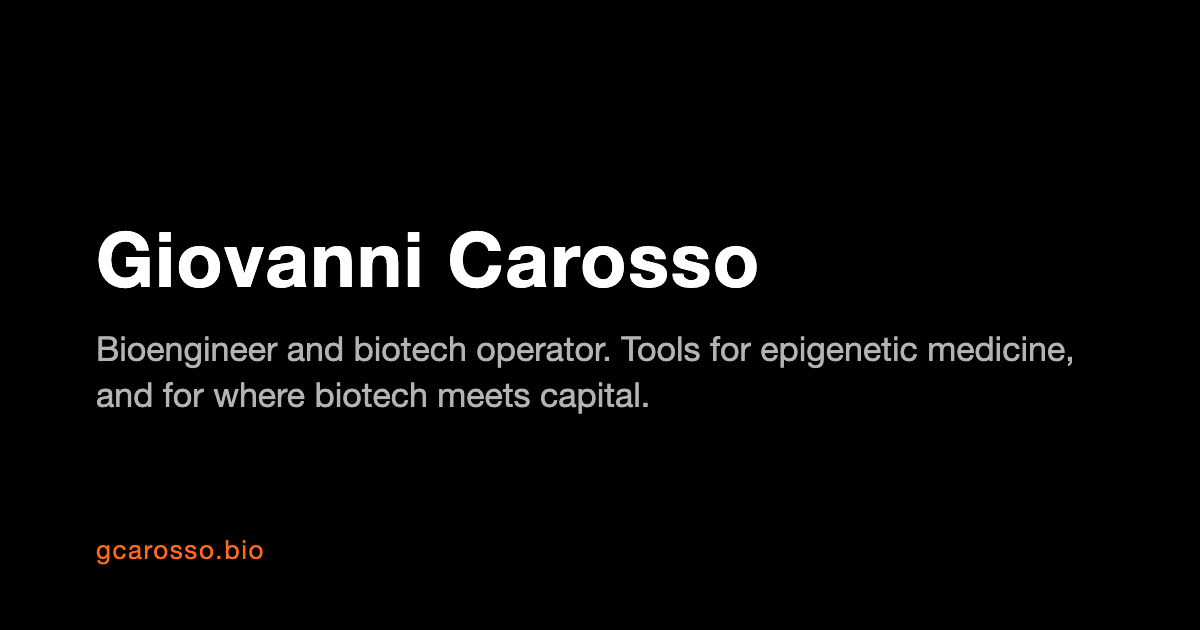
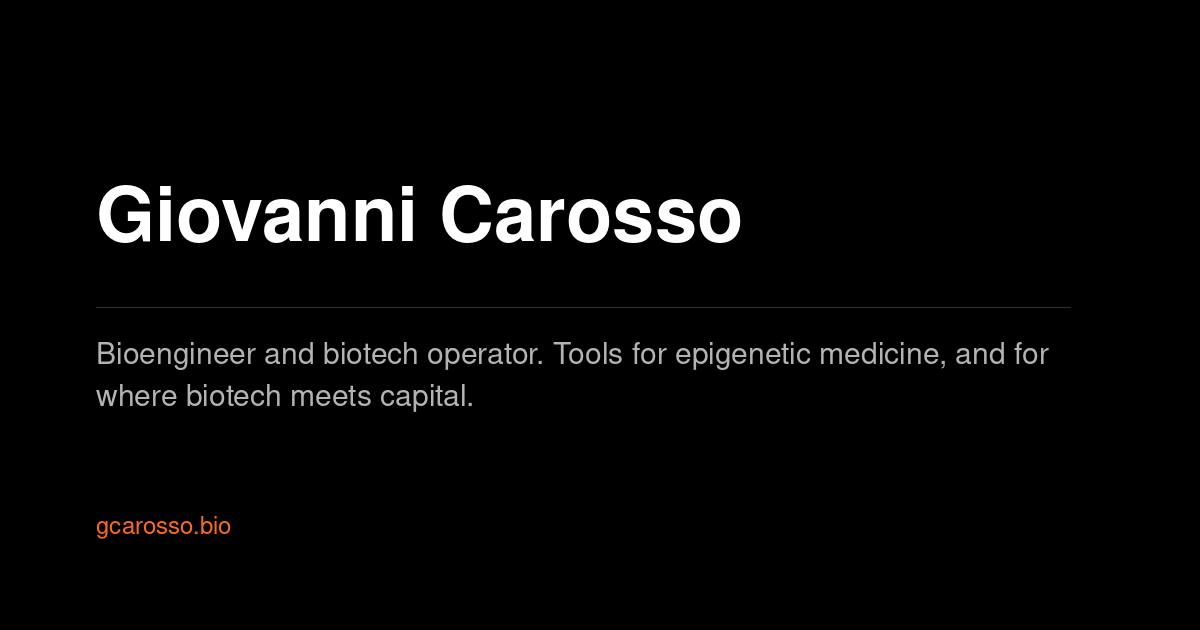
Share cards: text card on home and section pages, eclipse-mark card on Tools, photograph reserved for Travels; regenerable via assets/make_og_cards.py

Changed region(s): [[0.0617, 0.2714, 0.6475, 0.4825], [0.0617, 0.5429, 0.8942, 0.6635], [0.0617, 0.8143, 0.2158, 0.9048]]

diff --git a/tools/index.html b/tools/index.html
@@ -14,13 +14,13 @@
 <meta property="og:title" content="Tools — Giovanni Carosso">
 <meta property="og:description" content="Interactive research tools by Giovanni Carosso. SAROS: a navigator of today's clinical trial landscape, mapped to the money around it, 2026–2028, public sources only.">
 <meta property="og:url" content="https://gcarosso.bio/tools/">
-<meta property="og:image" content="https://gcarosso.bio/assets/img/saros-mark-512.png">
-<meta property="og:image:secure_url" content="https://gcarosso.bio/assets/img/saros-mark-512.png">
+<meta property="og:image" content="https://gcarosso.bio/assets/img/og-tools.png">
+<meta property="og:image:secure_url" content="https://gcarosso.bio/assets/img/og-tools.png">
 <meta property="og:image:type" content="image/png">
-<meta property="og:image:width" content="512">
-<meta property="og:image:height" content="512">
+<meta property="og:image:width" content="1200">
+<meta property="og:image:height" content="630">
 <meta name="twitter:card" content="summary_large_image">
-<meta name="twitter:image" content="https://gcarosso.bio/assets/img/saros-mark-512.png">
+<meta name="twitter:image" content="https://gcarosso.bio/assets/img/og-tools.png">
 <link rel="stylesheet" href="../style.css?v=41">
 <script type="application/ld+json">
 {

diff --git a/index.html b/index.html
@@ -14,13 +14,13 @@
 <meta property="og:title" content="Giovanni Carosso">
 <meta property="og:description" content="Giovanni Carosso, PhD — bioengineer and biotech operator in San Francisco. Tools for epigenetic medicine and for navigating where biotech meets capital, including SAROS, the clinical-trial readout dashboard.">
 <meta property="og:url" content="https://gcarosso.bio/">
-<meta property="og:image" content="https://gcarosso.bio/assets/img/og-home.jpg">
-<meta property="og:image:secure_url" content="https://gcarosso.bio/assets/img/og-home.jpg">
-<meta property="og:image:type" content="image/jpeg">
+<meta property="og:image" content="https://gcarosso.bio/assets/img/og-card.png?v=2">
+<meta property="og:image:secure_url" content="https://gcarosso.bio/assets/img/og-card.png?v=2">
+<meta property="og:image:type" content="image/png">
 <meta property="og:image:width" content="1200">
 <meta property="og:image:height" content="630">
 <meta name="twitter:card" content="summary_large_image">
-<meta name="twitter:image" content="https://gcarosso.bio/assets/img/og-home.jpg">
+<meta name="twitter:image" content="https://gcarosso.bio/assets/img/og-card.png?v=2">
 <link rel="stylesheet" href="style.css?v=41">
 <script type="application/ld+json">
 {

diff --git a/about.html b/about.html
@@ -14,13 +14,13 @@
 <meta property="og:title" content="About — Giovanni Carosso">
 <meta property="og:description" content="About Giovanni Carosso, PhD: a decade building high-throughput discovery pipelines for epigenetic editors, from Johns Hopkins and UCSF to Epicrispr Biotechnologies and General Control.">
 <meta property="og:url" content="https://gcarosso.bio/about">
-<meta property="og:image" content="https://gcarosso.bio/assets/img/og-card.png">
-<meta property="og:image:secure_url" content="https://gcarosso.bio/assets/img/og-card.png">
+<meta property="og:image" content="https://gcarosso.bio/assets/img/og-card.png?v=2">
+<meta property="og:image:secure_url" content="https://gcarosso.bio/assets/img/og-card.png?v=2">
 <meta property="og:image:type" content="image/png">
 <meta property="og:image:width" content="1200">
 <meta property="og:image:height" content="630">
 <meta name="twitter:card" content="summary_large_image">
-<meta name="twitter:image" content="https://gcarosso.bio/assets/img/og-card.png">
+<meta name="twitter:image" content="https://gcarosso.bio/assets/img/og-card.png?v=2">
 <link rel="stylesheet" href="style.css?v=41">
 <script type="application/ld+json">
 {

diff --git a/library/index.html b/library/index.html
@@ -14,13 +14,13 @@
 <meta property="og:title" content="Learning — Giovanni Carosso">
 <meta property="og:description" content="Library — the bookshelf and other media Giovanni Carosso keeps coming back to: biology, genetics, physics, systems, business, and a few novels.">
 <meta property="og:url" content="https://gcarosso.bio/library/">
-<meta property="og:image" content="https://gcarosso.bio/assets/img/og-card.png">
-<meta property="og:image:secure_url" content="https://gcarosso.bio/assets/img/og-card.png">
+<meta property="og:image" content="https://gcarosso.bio/assets/img/og-card.png?v=2">
+<meta property="og:image:secure_url" content="https://gcarosso.bio/assets/img/og-card.png?v=2">
 <meta property="og:image:type" content="image/png">
 <meta property="og:image:width" content="1200">
 <meta property="og:image:height" content="630">
 <meta name="twitter:card" content="summary_large_image">
-<meta name="twitter:image" content="https://gcarosso.bio/assets/img/og-card.png">
+<meta name="twitter:image" content="https://gcarosso.bio/assets/img/og-card.png?v=2">
 <link rel="stylesheet" href="../style.css?v=41">
 <script type="application/ld+json">
 {

diff --git a/travels/index.html b/travels/index.html
@@ -14,13 +14,13 @@
 <meta property="og:title" content="Travels — Giovanni Carosso">
 <meta property="og:description" content="Travels — photographs and film from the road, the mountains and underwater, by Giovanni Carosso.">
 <meta property="og:url" content="https://gcarosso.bio/travels/">
-<meta property="og:image" content="https://gcarosso.bio/assets/img/og-card.png">
-<meta property="og:image:secure_url" content="https://gcarosso.bio/assets/img/og-card.png">
-<meta property="og:image:type" content="image/png">
+<meta property="og:image" content="https://gcarosso.bio/assets/img/og-home.jpg">
+<meta property="og:image:secure_url" content="https://gcarosso.bio/assets/img/og-home.jpg">
+<meta property="og:image:type" content="image/jpeg">
 <meta property="og:image:width" content="1200">
 <meta property="og:image:height" content="630">
 <meta name="twitter:card" content="summary_large_image">
-<meta name="twitter:image" content="https://gcarosso.bio/assets/img/og-card.png">
+<meta name="twitter:image" content="https://gcarosso.bio/assets/img/og-home.jpg">
 <link rel="stylesheet" href="../style.css?v=41">
 <script type="application/ld+json">
 {

diff --git a/cv.html b/cv.html
@@ -14,13 +14,13 @@
 <meta property="og:title" content="CV — Giovanni Carosso">
 <meta property="og:description" content="CV — Giovanni A. Carosso, PhD: bioengineer and biotech operator; epigenetic editing, ML-native discovery platforms, publications and patents.">
 <meta property="og:url" content="https://gcarosso.bio/cv">
-<meta property="og:image" content="https://gcarosso.bio/assets/img/og-card.png">
-<meta property="og:image:secure_url" content="https://gcarosso.bio/assets/img/og-card.png">
+<meta property="og:image" content="https://gcarosso.bio/assets/img/og-card.png?v=2">
+<meta property="og:image:secure_url" content="https://gcarosso.bio/assets/img/og-card.png?v=2">
 <meta property="og:image:type" content="image/png">
 <meta property="og:image:width" content="1200">
 <meta property="og:image:height" content="630">
 <meta name="twitter:card" content="summary_large_image">
-<meta name="twitter:image" content="https://gcarosso.bio/assets/img/og-card.png">
+<meta name="twitter:image" content="https://gcarosso.bio/assets/img/og-card.png?v=2">
 <link rel="stylesheet" href="style.css?v=41">
 <script type="application/ld+json">
 {

diff --git a/notes/index.html b/notes/index.html
@@ -14,13 +14,13 @@
 <meta property="og:title" content="Notes — Giovanni Carosso">
 <meta property="og:description" content="Notes by Giovanni Carosso, PhD — general or specific musings on biology, biotech and building things.">
 <meta property="og:url" content="https://gcarosso.bio/notes/">
-<meta property="og:image" content="https://gcarosso.bio/assets/img/og-card.png">
-<meta property="og:image:secure_url" content="https://gcarosso.bio/assets/img/og-card.png">
+<meta property="og:image" content="https://gcarosso.bio/assets/img/og-card.png?v=2">
+<meta property="og:image:secure_url" content="https://gcarosso.bio/assets/img/og-card.png?v=2">
 <meta property="og:image:type" content="image/png">
 <meta property="og:image:width" content="1200">
 <meta property="og:image:height" content="630">
 <meta name="twitter:card" content="summary_large_image">
-<meta name="twitter:image" content="https://gcarosso.bio/assets/img/og-card.png">
+<meta name="twitter:image" content="https://gcarosso.bio/assets/img/og-card.png?v=2">
 <link rel="stylesheet" href="../style.css?v=41">
 <script type="application/ld+json">
 {

diff --git a/assets/make_og_cards.py b/assets/make_og_cards.py
@@ -1,0 +1,138 @@
+#!/usr/bin/env python3
+"""Generate the 1200x630 social share cards.
+
+Run from the site root:  python3 assets/make_og_cards.py
+
+Writes assets/img/og-card.png  (default card, used on most pages)
+       assets/img/og-tools.png (Tools page, carries the SAROS mark)
+
+Design follows the site: black ground, Helvetica Neue (Nimbus Sans is the
+metric-compatible stand-in available on Linux), hairline rule, SAROS orange
+for the URL. Text block is optically centred with a 96px left margin and a
+90px bottom margin.
+"""
+
+from pathlib import Path
+from PIL import Image, ImageDraw, ImageFont
+
+W, H = 1200, 630
+MARGIN_L = 96
+MARGIN_R = 130          # slightly larger than left; optical balance
+MARGIN_B = 90
+
+BLACK = (0, 0, 0)
+WHITE = (255, 255, 255)
+GREY = (179, 179, 179)
+ORANGE = (255, 106, 26)  # SAROS #FF6A1A
+RULE = (46, 46, 46)
+
+FONT_DIR = Path("/usr/share/fonts/opentype/urw-base35")
+BOLD = FONT_DIR / "NimbusSans-Bold.otf"
+REG = FONT_DIR / "NimbusSans-Regular.otf"
+
+HERE = Path(__file__).resolve().parent
+IMG = HERE / "img"
+
+
+def wrap(draw, text, font, max_w):
+    words, lines, cur = text.split(), [], ""
+    for word in words:
+        trial = f"{cur} {word}".strip()
+        if draw.textlength(trial, font=font) <= max_w:
+            cur = trial
+        else:
+            if cur:
+                lines.append(cur)
+            cur = word
+    if cur:
+        lines.append(cur)
+    return lines
+
+
+def card(out, name, subtitle, url, eyebrow=None, mark=None):
+    im = Image.new("RGB", (W, H), BLACK)
+    d = ImageDraw.Draw(im)
+
+    f_eye = ImageFont.truetype(str(REG), 24)
+    f_name = ImageFont.truetype(str(BOLD), 76)
+    f_sub = ImageFont.truetype(str(REG), 30)
+    f_url = ImageFont.truetype(str(REG), 24)
+
+    # The mark, if any, sits on the right and narrows the text measure.
+    mark_w = 0
+    if mark and Path(mark).exists():
+        import numpy as np
+        from PIL import ImageChops
+
+        side = 300
+        m = Image.open(mark).convert("RGB").resize((side, side), Image.LANCZOS)
+        a = np.asarray(m, np.float32)
+
+        # The source is a tight crop of a photographed eclipse: its ground is
+        # near-black but not black (~8,3,0) and the corona still reaches the
+        # frame edge, so a plain paste shows as a square. Drop the floor to
+        # true black, then feather the outer band so the crop edge disappears.
+        a = np.clip(a - 9.0, 0, 255)
+        ramp = np.clip(np.linspace(0, 1, side) / 0.14, 0, 1)
+        ramp = np.minimum(ramp, ramp[::-1])
+        a *= (ramp[None, :] * ramp[:, None])[..., None]
+
+        layer = Image.new("RGB", (W, H), BLACK)
+        layer.paste(Image.fromarray(a.astype("uint8")),
+                    (W - MARGIN_R - side + 40, (H - side) // 2))
+        im = ImageChops.lighter(im, layer)
+        d = ImageDraw.Draw(im)
+        mark_w = side + 60
+
+    text_w = W - MARGIN_L - MARGIN_R - mark_w
+
+    sub_lines = wrap(d, subtitle, f_sub, text_w)
+
+    # Measure the block so it can be centred as a unit.
+    eyebrow_h = 40 if eyebrow else 0
+    name_h = 92
+    rule_gap_top, rule_gap_bottom = 30, 34
+    sub_h = 42 * len(sub_lines)
+    block_h = eyebrow_h + name_h + rule_gap_top + 1 + rule_gap_bottom + sub_h
+
+    # Sit the block a fixed gap above the URL line, which lands the top margin
+    # close to the bottom margin without the text floating mid-card.
+    url_top = H - MARGIN_B - 24
+    y = url_top - 90 - block_h
+
+    if eyebrow:
+        d.text((MARGIN_L, y), eyebrow.upper(), font=f_eye, fill=ORANGE)
+        y += eyebrow_h
+
+    d.text((MARGIN_L, y), name, font=f_name, fill=WHITE)
+    y += name_h + rule_gap_top
+
+    d.line([(MARGIN_L, y), (MARGIN_L + text_w, y)], fill=RULE, width=1)
+    y += 1 + rule_gap_bottom
+
+    for line in sub_lines:
+        d.text((MARGIN_L, y), line, font=f_sub, fill=GREY)
+        y += 42
+
+    d.text((MARGIN_L, H - MARGIN_B - 24), url, font=f_url, fill=ORANGE)
+
+    im.save(out, "PNG", optimize=True)
+    print(f"wrote {out}  block_h={block_h}")
+
+
+if __name__ == "__main__":
+    card(
+        IMG / "og-card.png",
+        "Giovanni Carosso",
+        "Bioengineer and biotech operator. Tools for epigenetic medicine, "
+        "and for where biotech meets capital.",
+        "gcarosso.bio",
+    )
+    card(
+        IMG / "og-tools.png",
+        "Giovanni Carosso",
+        "SAROS and other interactive research tools.",
+        "gcarosso.bio/tools",
+        eyebrow="Tools",
+        mark=IMG / "saros-mark-512.png",
+    )
